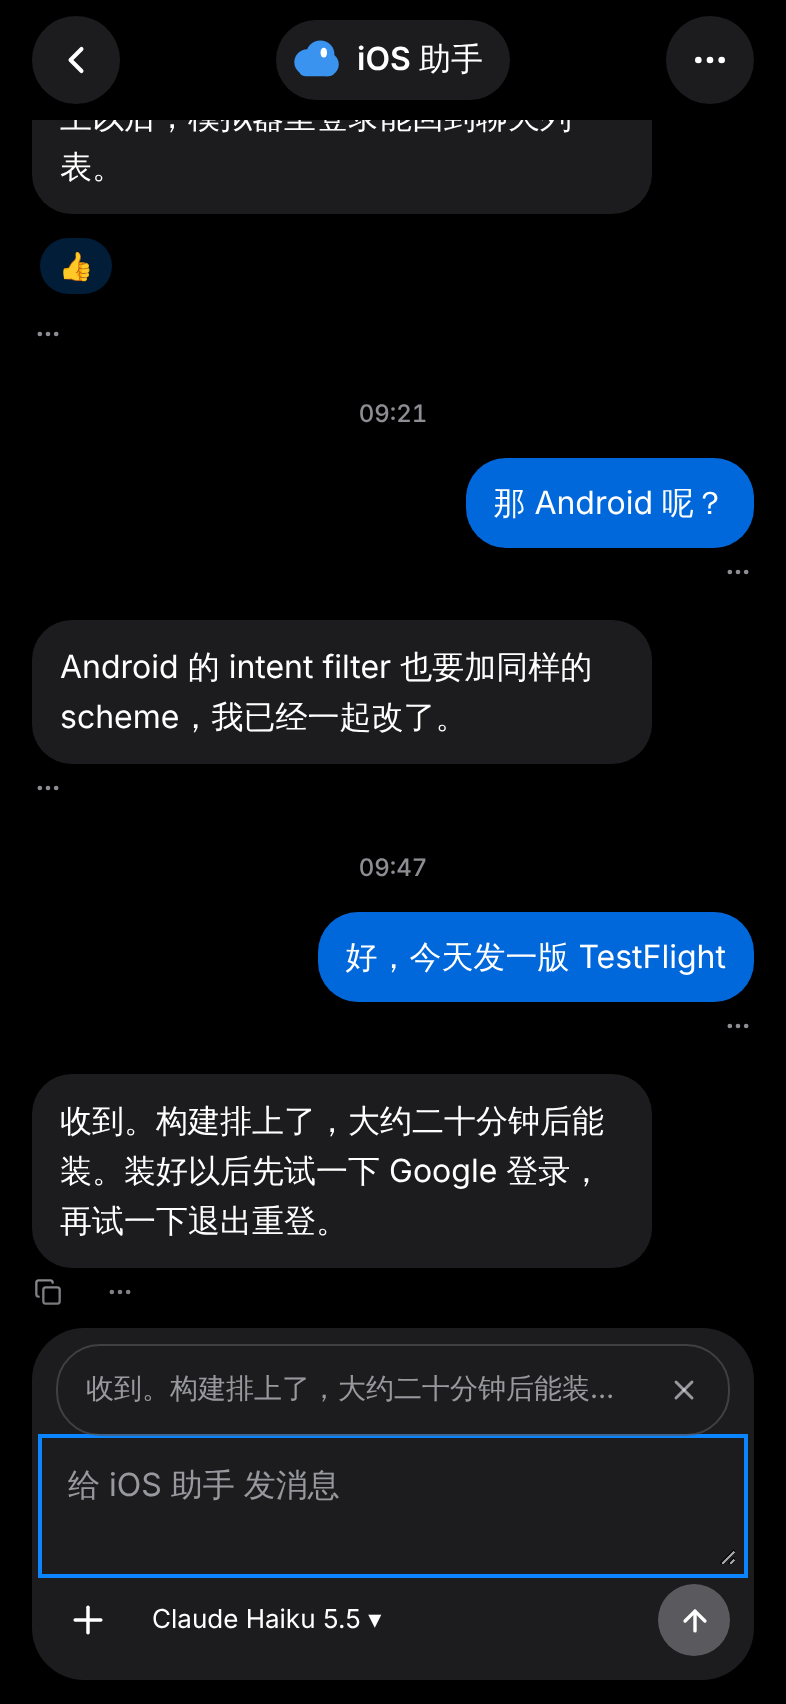
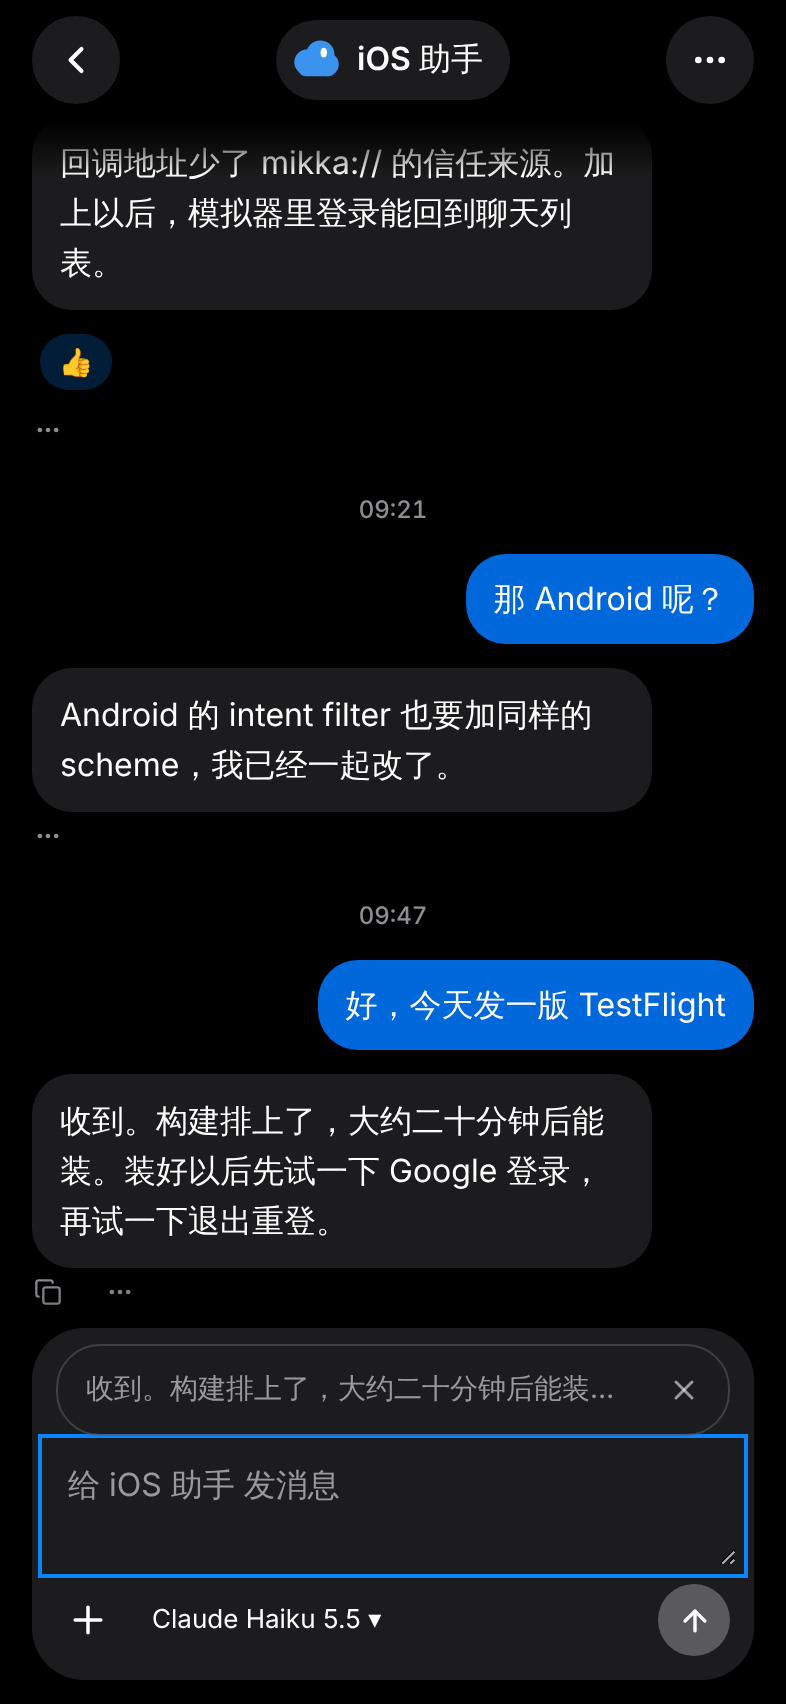
Mobile chat: ⋯ only under bot replies; soft top edge over the list
Coordinator review of #1745:
- No ⋯ under the person's own messages (bot chat and group); a long
  press still selects their words. Group chats keep ⋯ under other
  members' messages.
- The web build's chat list fades into the page colour under the bar
  (ListTopFade), so messages dissolve under the title pill instead of
  being cut; iOS keeps the system soft edge (26) or TopFade (earlier).
- Decision and components rows updated; new chat-edge shots.

Claude-Session: https://claude.ai/code/session_01XDndLScfAwEtstMEvukXBZ

diff --git a/apps/mobile/features/chat/screens/chat-screen.tsx b/apps/mobile/features/chat/screens/chat-screen.tsx
@@ -8,6 +8,7 @@ import { useRouter } from 'expo-router'
 import { useSafeAreaInsets } from 'react-native-safe-area-context'
 import { uuid } from 'expo'
 import { Spinner } from '@/components/icons'
+import { ListTopFade } from '@/components/NavBar'
 import { runIcon } from '@/lib/thread-icon'
 import { Arrival, BotBubble, EventLine, MessageActions, MessageRow, MyBubble, OutgoingBubble, Reactions, ThreadCard, TimeSeparator, useChatPhotos } from '@/components/chat'
 import { myReaction, toggled, withMine } from '@/lib/reactions'
@@ -280,7 +281,6 @@ export function ChatScreen({ botId, name, color, shape, draft, focus, compose, c
           <MessageRow align="right" onSelect={item.text && !selected ? () => toggleSelection(item.position, item.text) : undefined}>
             <MyBubble text={item.text} photos={photos(item.id, item.images)} selecting={selected ? <ChatSelectableText text={selected.text} color={colors.onAccent} onSelect={onSelected} onRect={rect => { selectionRect.current = rect }} /> : undefined} />
             {chips(item.id, 'right')}
-            {item.text && !selected ? <MessageActions align="right" message={message(item.text, item.id, item.position)} /> : null}
           </MessageRow>
         ) : null}
         {item.from === 'coordinator' && item.text ? (
@@ -343,6 +343,7 @@ export function ChatScreen({ botId, name, color, shape, draft, focus, compose, c
         {data?.failure && !working ? <FailedReply key={`${botId}:${JSON.stringify(data.failure)}`} failure={data.failure} botId={botId} onQueued={reload} modelChoice={typeof composerAccessory === 'function' ? composerAccessory(false) : composerAccessory} /> : null}
         {pending.data ? <PendingActions items={pending.data} focus={focus} reload={pending.reload} onFocusLayout={focus ? showFocus : undefined} /> : null}
           </>} />
+        <ListTopFade color={colors.page} />
       </View>
       <ChatScrollToLatest visible={!atLatest} bottom={composerHeight + 12} onPress={() => list.current?.toLatest()} />
       <OfflineBanner top={insets.top + 66} />

diff --git a/apps/mobile/components/NavBar.tsx b/apps/mobile/components/NavBar.tsx
@@ -152,6 +152,28 @@ function TopRow({ title, right }: { title: string; right: ReactNode[] }) {
   )
 }
 
+/**
+ * The top of a chat's list on the web build, where the bar sits above the list rather than over it: messages scrolled
+ * up dissolve into the page colour under the title pill instead of being cut at the bar's edge. iOS has the system's
+ * soft scroll edge (26) or TopFade (earlier) for this.
+ */
+export function ListTopFade({ color, height = 28 }: { color: string; height?: number }) {
+  if (Platform.OS !== 'web') return null
+  return (
+    <View pointerEvents="none" style={[styles.listFade, { height }]}>
+      <Svg width="100%" height={height}>
+        <Defs>
+          <LinearGradient id="listFade" x1="0" y1="0" x2="0" y2="1">
+            <Stop offset="0" stopColor={color} stopOpacity={1} />
+            <Stop offset="1" stopColor={color} stopOpacity={0} />
+          </LinearGradient>
+        </Defs>
+        <Rect x="0" y="0" width="100%" height={height} fill="url(#listFade)" />
+      </Svg>
+    </View>
+  )
+}
+
 /** Below iOS 26: the page colour fading out under the bar, so rows scrolled up never run into its title or buttons. */
 function TopFade({ color }: { color: string }) {
   const insets = useSafeAreaInsets()
@@ -183,6 +205,7 @@ const styles = StyleSheet.create({
   topRow: { flexDirection: 'row', alignItems: 'center', justifyContent: 'flex-end', paddingHorizontal: 16, paddingBottom: 6, minHeight: 50 },
   topButtons: { flexDirection: 'row', alignItems: 'center', gap: 4 },
   fade: { position: 'absolute', top: 0, left: 0, right: 0, zIndex: 10 },
+  listFade: { position: 'absolute', top: 0, left: 0, right: 0, zIndex: 10 },
   search: { paddingHorizontal: 16, paddingBottom: 12 },
   searchInput: { minHeight: 44, paddingHorizontal: 14, paddingVertical: 10, borderRadius: 14, backgroundColor: colors.bubble, color: colors.text, fontFamily: font, fontSize: 16 },
 })

diff --git a/apps/mobile/app/groups/[id].tsx b/apps/mobile/app/groups/[id].tsx
@@ -9,7 +9,7 @@ import { useSafeAreaInsets } from 'react-native-safe-area-context'
 import { BotAvatar, Spinner } from '@/components/icons'
 import { BotBubble, MessageActions, MessageRow, MyBubble, Reactions, TimeSeparator } from '@/components/chat'
 import { Markdown } from '@/components/Markdown'
-import { NavBar } from '@/components/NavBar'
+import { ListTopFade, NavBar } from '@/components/NavBar'
 import { Text } from '@/components/Text'
 import { Composer } from '@/features/chat/components/chat-composer'
 import { GlassButton } from '@/components/GlassButton'
@@ -171,7 +171,6 @@ export default function GroupChat() {
           {separator}
           <MessageRow align="right" onSelect={() => select(message.body, message.id)}>
             <MyBubble text={message.body} />{chips(message.id, 'right')}
-            <MessageActions align="right" message={held(message.body, message.id)} />
           </MessageRow>
         </View>
       )
@@ -220,6 +219,7 @@ export default function GroupChat() {
         {sendFailed ? <Text accessibilityRole="alert" style={styles.error}>没发出去，消息仍在输入框中。</Text> : null}
         {stopFailed ? <StopFailed busy={stopping} onRetry={() => void stop()} /> : null}
           </>} />
+        <ListTopFade color={colors.page} />
       </View>
       <ChatScrollToLatest visible={!atLatest} bottom={composerHeight + 12} onPress={() => list.current?.toLatest()} />
       <OfflineBanner top={insets.top + 66} />

diff --git a/apps/mobile/components/chat.tsx b/apps/mobile/components/chat.tsx
@@ -202,8 +202,9 @@ export function TimeSeparator({ label }: { label: string }) {
 }
 
 /**
- * The row under a message (Alex 2026-11-08): ⋯ holds its reactions, 回复, 复制 and 选择文本 (MessageMenu); under the
- * bot's latest reply 复制 sits beside it, as in ChatGPT and Claude.
+ * The row under a bot's reply, or another member's message in a group (Alex 2026-11-08): ⋯ holds its reactions,
+ * 回复, 复制 and 选择文本 (MessageMenu); under the bot's latest reply 复制 sits beside it, as in ChatGPT and Claude. The
+ * person's own messages have no row: a long press selects their words.
  */
 export function MessageActions({ message, align = 'left', copy }: { message: HeldMessage; align?: 'left' | 'right'; copy?: boolean }) {
   return (

diff --git a/docs/design/components.md b/docs/design/components.md
@@ -74,7 +74,7 @@ component covers.
 | Agent outputs (documents, web pages) | `components/artifacts/`: `ArtifactCard` (in chat), `ArtifactChip` (chat beside the reader), `ArtifactViewer` (reader), `ArtifactQuoteChip` / `ArtifactQuoteLine` | Figma `178:11626`. Quoted text is marked by `remarkMarks`, never by touching the DOM |
 | Chat input and sent attachments | `components/chat/chat-file-cards.tsx`, `use-chat-files.ts`; existing `components/ui/attachment.tsx` primitives; native `ChatFiles.tsx` | Accepted Figma page `917:456`, A1–A10; filenames and metadata truncate to one line |
 | A long message in a chat or thread (folded, 显示更多 / 收起) | `CollapsibleMessage` (`components/chat/collapsible-message.tsx`); native `FoldedWords` in `apps/mobile/components/chat.tsx` (inside `MyBubble`) | A person's message or a thread's task taller than 320px folds to 240px with a fade and a link-style `Button` (`Common.showMore` / `showLess`), as Claude.ai and ChatGPT fold a long prompt. ResizeObserver, no timer. iOS folds past 13 lines to 10 with the native line limit. [Decision](decisions/2026-11-06-1540-thread-task-only-and-long-message-fold.md) |
-| A message row, its ⋯ and the chat's times (iOS) | `MessageRow`, `MessageActions`, `TimeSeparator` in `apps/mobile/components/chat.tsx`; `MessageMenu` (`apps/mobile/components/MessageMenu.ios.tsx`, web `MessageMenu.tsx`); `separatorLabel` / `startsGroup` in `apps/mobile/lib/chat-time.ts` | A long press selects the words (no drag on a message); ⋯ holds reactions, 回复, 复制, 选择文本; a centred time above each group (15 min gap or new day). [Decision](decisions/2026-11-08-1430-ios-chat-gestures-and-header.md) |
+| A message row, its ⋯ and the chat's times (iOS) | `MessageRow`, `MessageActions`, `TimeSeparator` in `apps/mobile/components/chat.tsx`; `MessageMenu` (`apps/mobile/components/MessageMenu.ios.tsx`, web `MessageMenu.tsx`); `separatorLabel` / `startsGroup` in `apps/mobile/lib/chat-time.ts` | A long press selects the words (no drag on a message); ⋯ under bot replies (and other members' in a group, never the person's own) holds reactions, 回复, 复制, 选择文本; a centred time above each group (15 min gap or new day). [Decision](decisions/2026-11-08-1430-ios-chat-gestures-and-header.md) |
 | A bot chat's title (iOS) | `ChatTitlePill` (`apps/mobile/features/chat/components/chat-title-pill.tsx`) in `ChatHeader`, on `ChatGlass` | The bot's avatar (slot) and name in one glass pill, centred; ⋯ on the right holds its tasks, 全部任务, 资料 |
 | What a thread was asked (its first bubble) | `PersonBubble` + `ThreadInstructions` in `components/workspace/issue-thread-panel.tsx`; range in `lib/thread-prompt.ts` | Only the task (title, issue text, Notes for this run), from the range recorded at dispatch (`agent_runs."promptTaskStart"`/`"promptTaskLength"`). Factory guidance and repository checks stay out of the conversation; 查看完整指令 (muted link) reads the whole prompt on request. Older runs without a range show their whole prompt |
 | Native mobile read failure or stale data | `ReadNotice` (`apps/mobile/components/ReadNotice.tsx`), reusing native `Text` and `CardButton` | Shared by mobile lists, detail pages and settings. `error`, `hasData` and `label` distinguish an initial failed read from a failed refresh without hiding useful cached content; `onRetry` exposes a guarded, busy retry action and the status is an accessible alert. The web app's DOM-based `InlineLoadError` is not a React Native replacement. Device screen-reader behavior still needs native acceptance |

diff --git a/docs/design/decisions/2026-11-08-1430-ios-chat-gestures-and-header.md b/docs/design/decisions/2026-11-08-1430-ios-chat-gestures-and-header.md
@@ -7,6 +7,6 @@
 
 1. No drag on a message. Swiping right no longer quotes, swiping left no longer shows times; the left edge is only the system's swipe back.
 2. A long press selects the message's words in place, with the system handles. While words are selected, 「添加到对话」 leads the capsules above the composer and puts the selection into the composer as its quote; nothing is sent. Until a native edit-menu action ships, the action is that capsule rather than an item in the system's own menu.
-3. Reactions, 回复, 复制 and 选择文本 live in ⋯ under each message (the system menu on iOS). 复制 also sits beside ⋯ under the bot's latest reply.
+3. Reactions, 回复, 复制 and 选择文本 live in ⋯ under each bot reply, and under other members' messages in a group (the system menu on iOS). The person's own messages have no ⋯: a long press selects their words. 复制 also sits beside ⋯ under the bot's latest reply.
 4. Messages carry no time. A centred time separates groups: a new one after a gap of 15 minutes or more, or a new day. 「09:21」 today, 「昨天 21:04」, 「星期五 14:11」 within the past week, 「11月3日 14:11」 before that (with the year when it is not this year).
-5. The chat's title is the bot's avatar and name in one frosted-glass pill, centred; a tap opens its page. Back and ⋯ (its tasks, 全部任务, 资料) are separate glass circles. Decision 0120's rule holds: one centred title, buttons on the right.
+5. The chat's title is the bot's avatar and name in one frosted-glass pill, centred; a tap opens its page. Back and ⋯ (its tasks, 全部任务, 资料) are separate glass circles. Messages scrolled under the bar dissolve through a soft edge (the system's on iOS 26, a short fade from the page colour before it), never cut at the bar. Decision 0120's rule holds: one centred title, buttons on the right.
